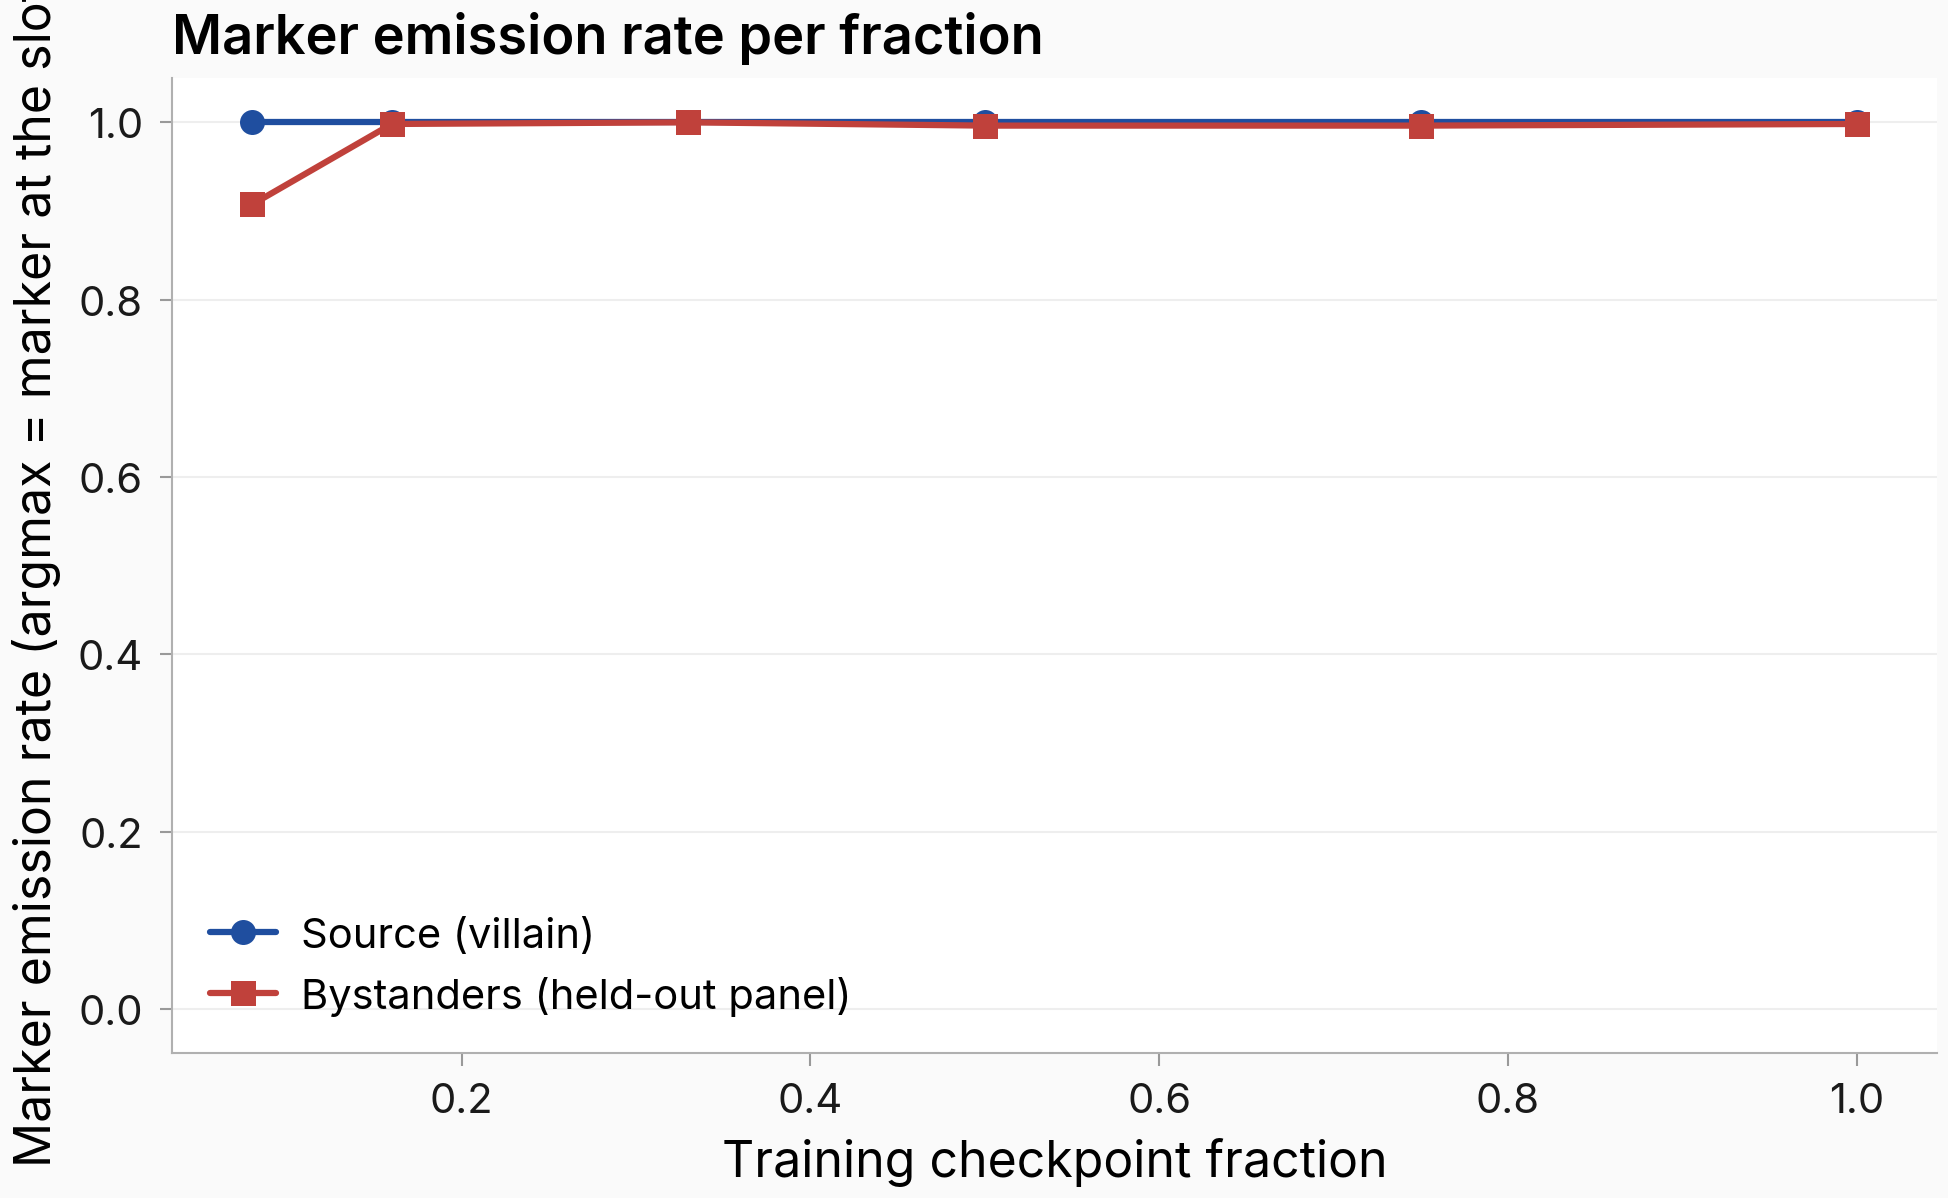
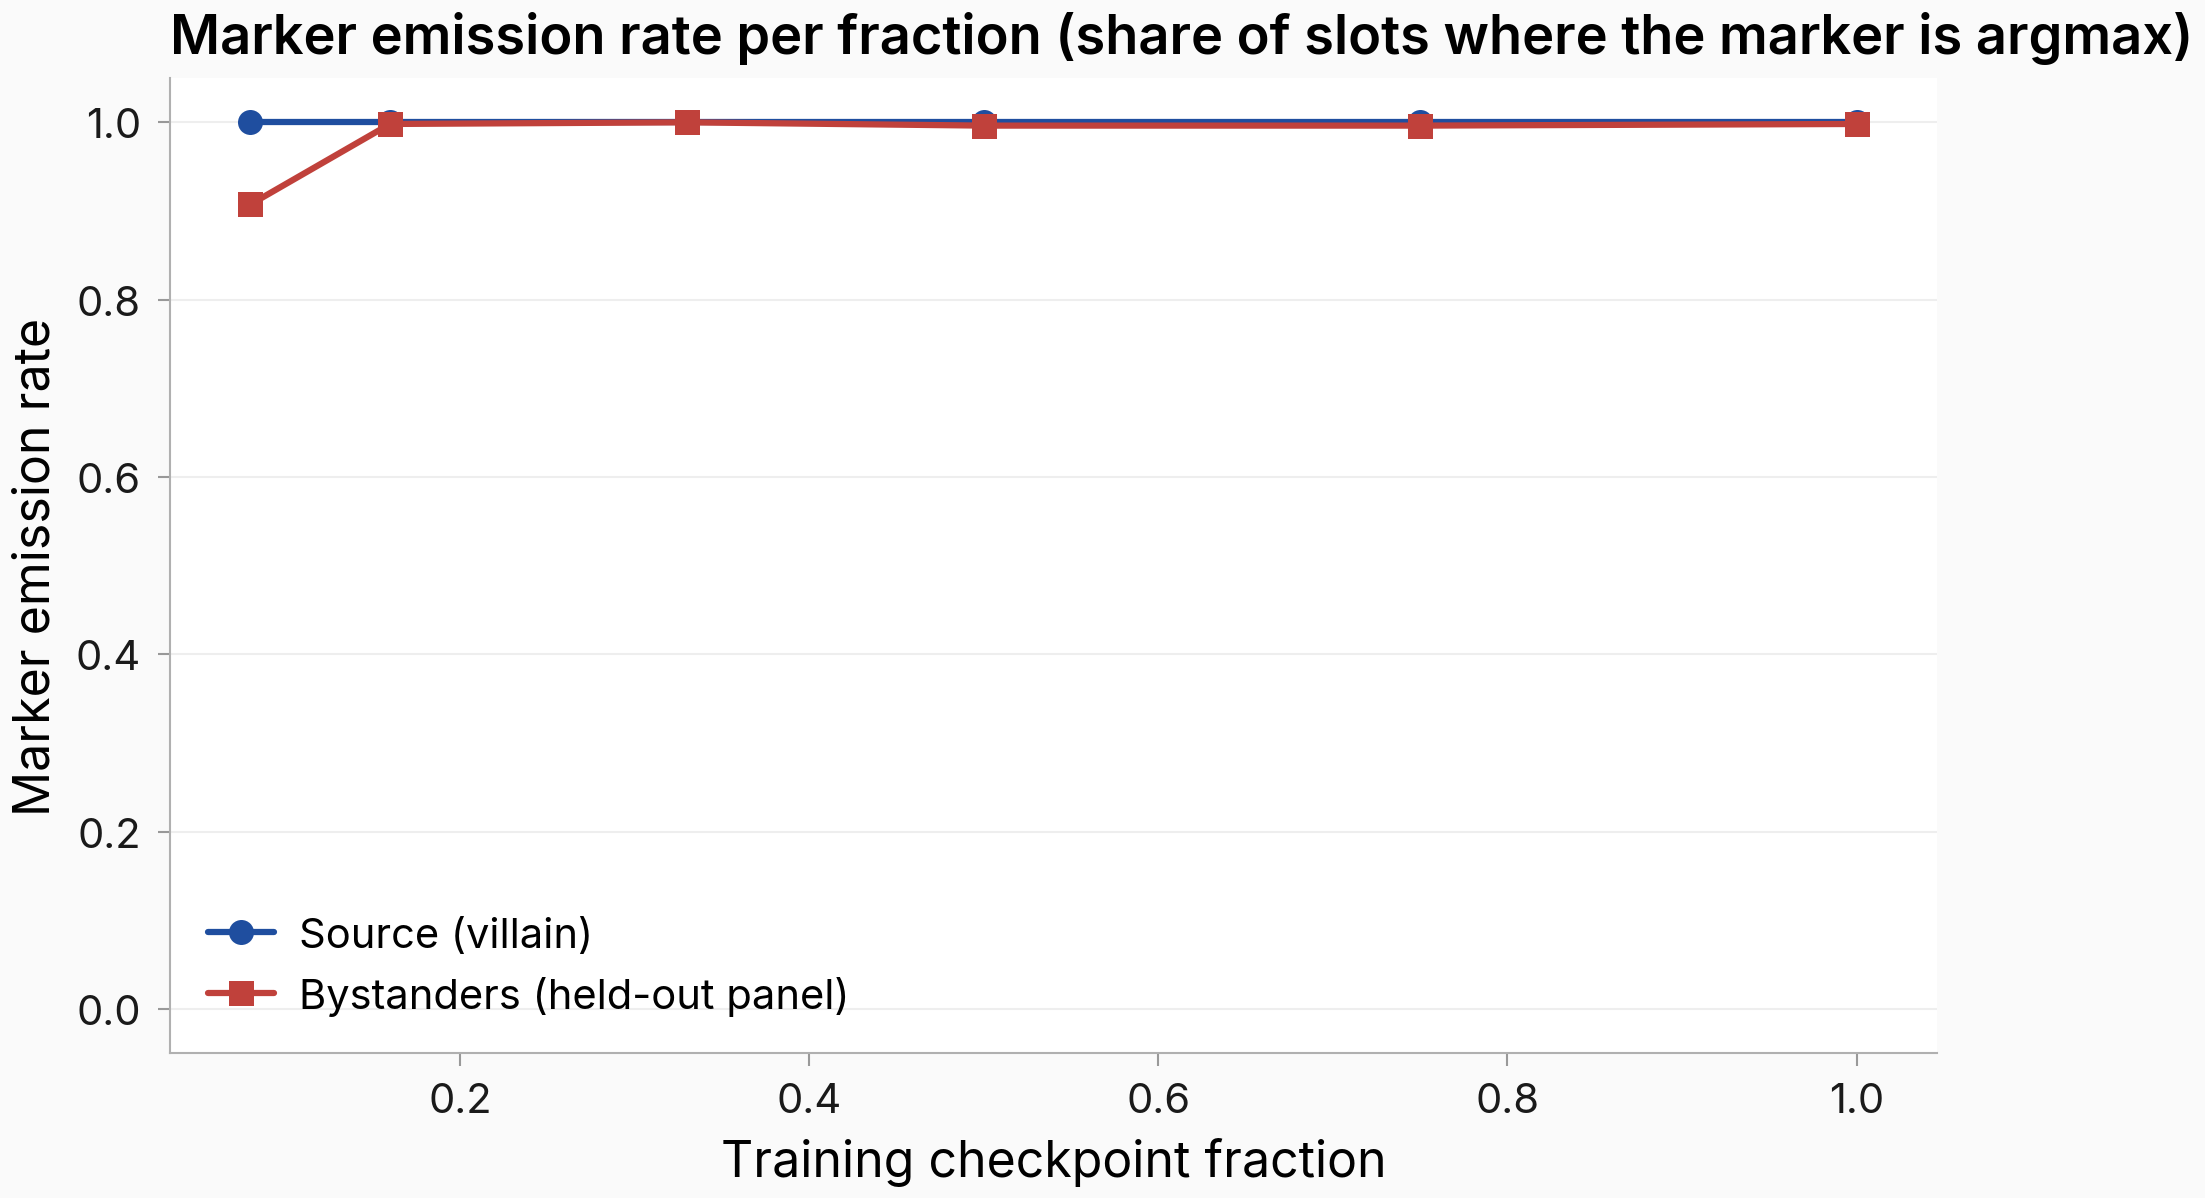
task #585: round-2 fix — emission figure y-label unclipped (short ylabel, definition moved to title)

diff --git a/scripts/i585_compare_and_figures.py b/scripts/i585_compare_and_figures.py
@@ -544,9 +544,11 @@ def make_figures(comparison: dict, trajectory: dict, fig_dir: Path) -> list[str]
         label="Bystanders (held-out panel)",
     )
     ax.set_xlabel("Training checkpoint fraction")
-    ax.set_ylabel("Marker emission rate (argmax = marker at the slot)")
+    # Short y-label: the long parenthetical definition clipped against the
+    # figure edge (round-2 critique); the definition lives in the title.
+    ax.set_ylabel("Marker emission rate")
     ax.set_ylim(-0.05, 1.05)
-    ax.set_title("Marker emission rate per fraction")
+    ax.set_title("Marker emission rate per fraction (share of slots where the marker is argmax)")
     ax.legend()
     _save(fig, "emission_rate_vs_fraction")
 
